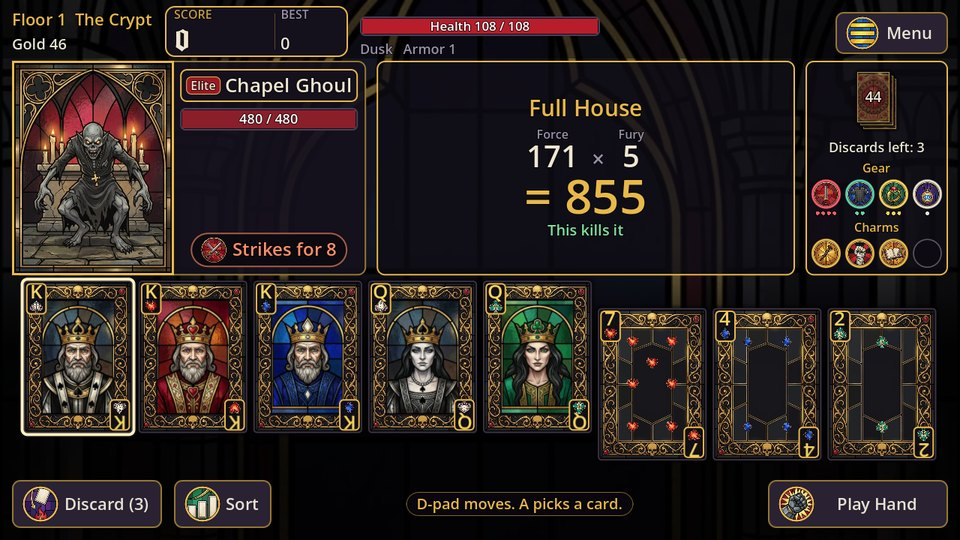
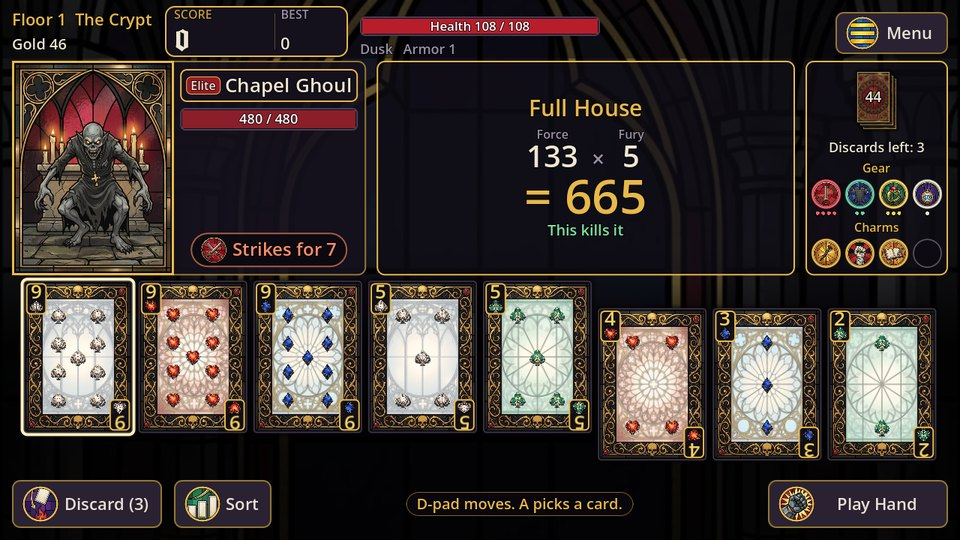
Game Shelf: Grave Odds 0.4.5 card (suit glass number cards)
Claude-Session: https://claude.ai/code/session_0117TTYB8p9x9syELU7X3tfV

diff --git a/index.html b/index.html
@@ -120,11 +120,11 @@ h2 a[href="lo-fi-league/"]{font-size:.9em;word-spacing:.35em}h2 a[href="pixel-ho
 </div>
 </article>
 <article class="card" data-repo="grave-odds">
-<a class="shot" href="grave-odds/"><img src="images/grave-odds.jpg?v=0.4.4" alt="Grave Odds: an elite fight with the Chapel Ghoul in stained glass, a Full House of kings and queens picked from a hand of dark gold cards and the damage panel showing 855" width="960" height="540" loading="lazy"></a>
+<a class="shot" href="grave-odds/"><img src="images/grave-odds.jpg?v=0.4.5" alt="Grave Odds: an elite fight with the Chapel Ghoul, a Full House of nines and fives picked on number cards with pale stained glass windows by suit, and the damage panel showing 665" width="960" height="540" loading="lazy"></a>
 <div class="body">
 <div class="top"><h2><a href="grave-odds/">Grave Odds</a></h2><span class="tag">Deal death, one hand at a time.</span></div>
 <p class="desc">Poker hands against a dark gothic dungeon, in stained glass art. Climb the map room by room, see the damage before you strike and watch it count up as it lands. Loot gear in four tiers, collect charms that bend your Fury, buy rites in Tallowgate and beat three bosses that change the rules. Earn stars, daily goals and levels. Candlelight, Dusk and Midnight. Five save slots. Touch, keyboard or Xbox controller, upright or sideways.</p>
-<p class="meta">Browser and Android<span class="ver"> · Version 0.4.4</span> <span class="upd">· Updated <time datetime="2026-11-22T09:32-06:00">Nov 22, 2026, 9:32 AM CT</time></span></p>
+<p class="meta">Browser and Android<span class="ver"> · Version 0.4.5</span> <span class="upd">· Updated <time datetime="2026-11-22T12:10-06:00">Nov 22, 2026, 12:10 PM CT</time></span></p>
 <div class="actions"><a class="btn" href="grave-odds/">Open game page</a></div>
 </div>
 </article>
